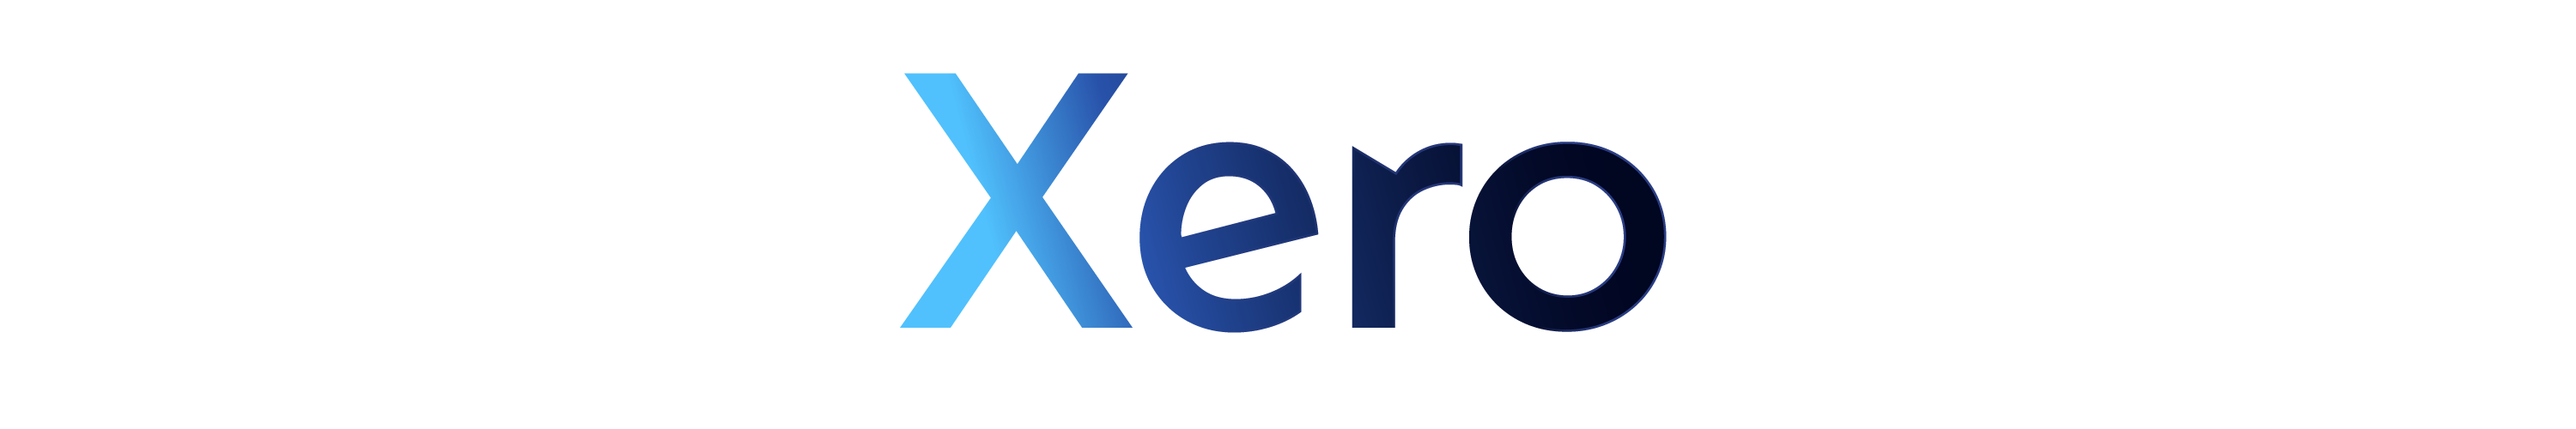
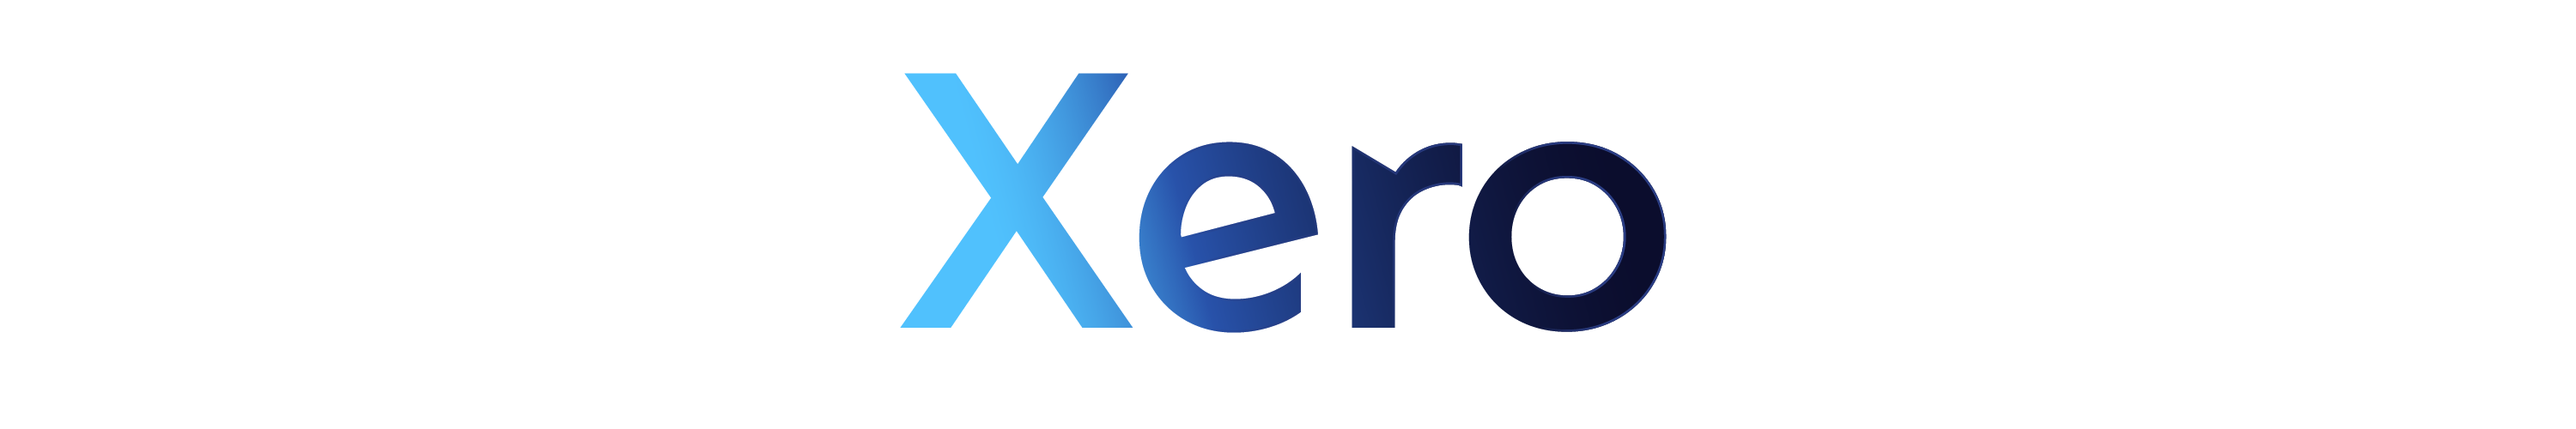
📝 更新 Brand

Changed region(s): [[0.372, 0.15, 0.465, 0.78]]

diff --git a/README.en.md b/README.en.md
@@ -6,7 +6,7 @@ English |
 
 <div align="center">
 
-  <img src="https://cdn.jsdelivr.net/gh/Fooxygen/Xero@main/docs/images/brand_xero.png" style="margin=0">
+  <img src="https://cdn.jsdelivr.net/gh/Fooxygen/Xero@main/docs/images/brand_xero.svg" style="margin=0">
   <h3 align="center">Xero</h3>
   <p align="center">
     Statically typed programming language & compiler

diff --git a/README.md b/README.md
@@ -6,7 +6,7 @@
 
 <div align="center">
 
-  <img src="https://cdn.jsdelivr.net/gh/Fooxygen/Xero@main/docs/images/brand_xero.png" style="margin=0">
+  <img src="https://cdn.jsdelivr.net/gh/Fooxygen/Xero@main/docs/images/brand_xero.svg" style="margin=0">
   <h3 align="center">Xero</h3>
   <p align="center">
     静态类型编程语言及其编译器
